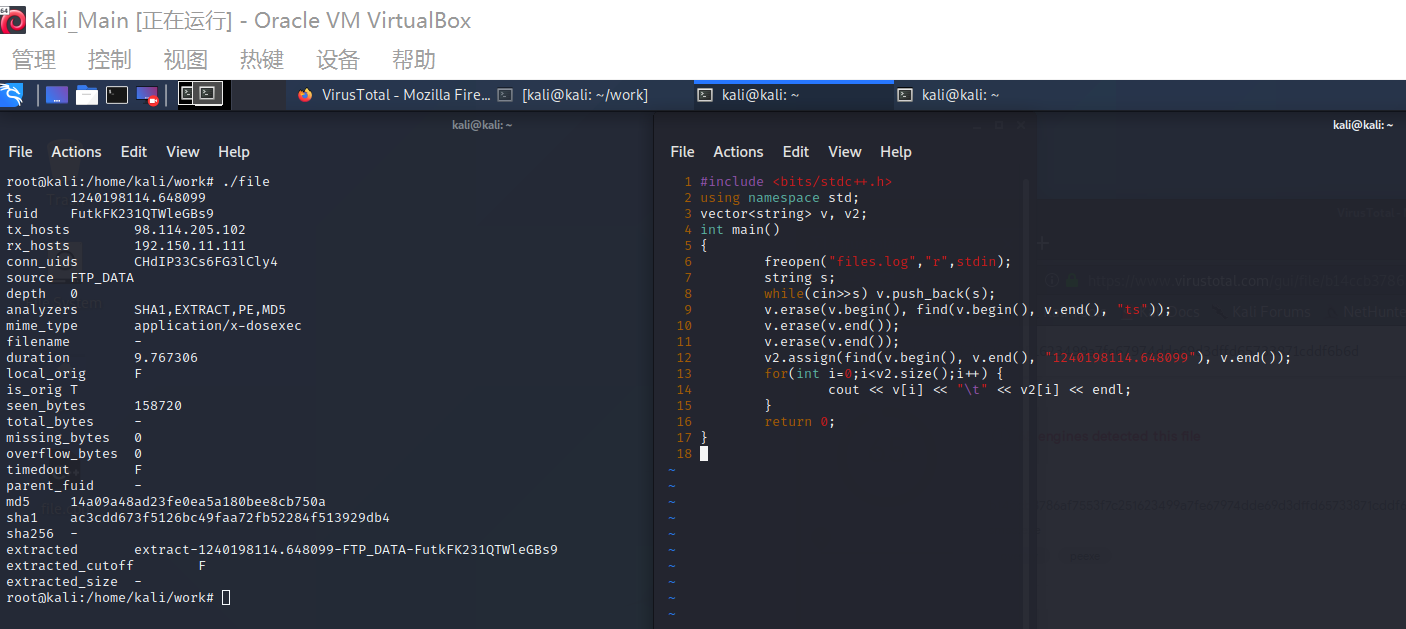
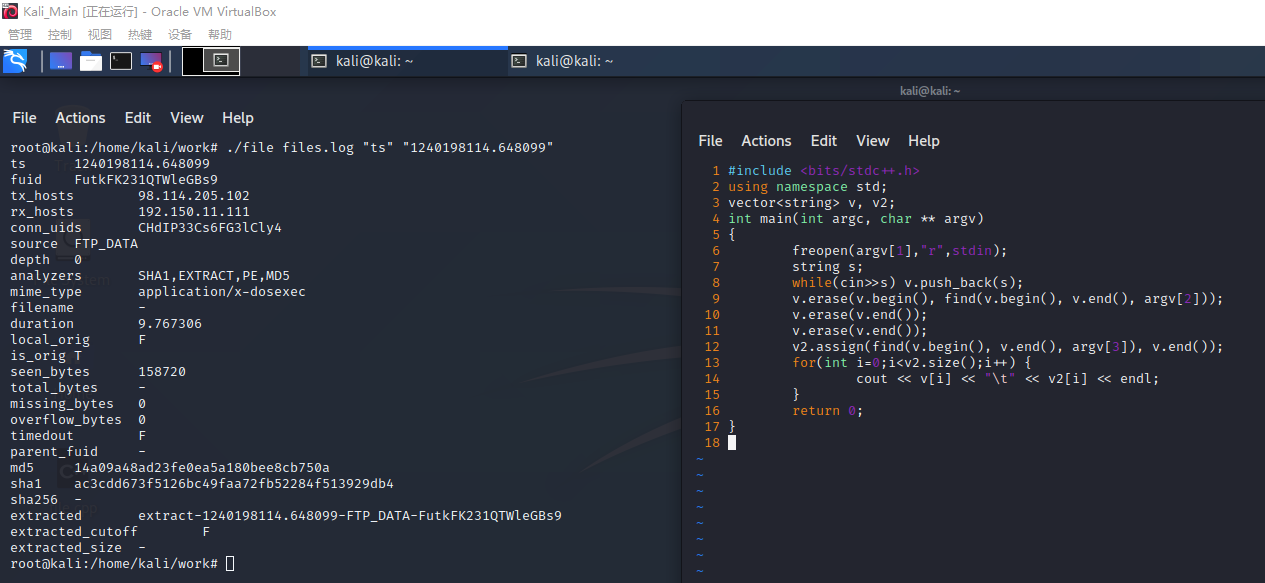
将自行实现的代码变为 **外部依赖传入** 方式

diff --git a/ch0x0C/README.md b/ch0x0C/README.md
@@ -177,6 +177,8 @@ redef FTP::default_capture_password = T;
 
 这包含了一个完整的C++编译环境（C++用户狂喜，还支持C++20！）,那其实只要对应数据输入输出就好了。（可能用 python 按`\t` `split`更短？不是重点不做深究）
 
+根据黄大的建议，把之前的作业代码变为 **外部依赖传入** 方式。可执行程序后三个参数分别为 `进行处理的文件名`、`首个标题字符串`、`首个结果字符串`
+
 ![](imgs/cpp.png)
 
 
